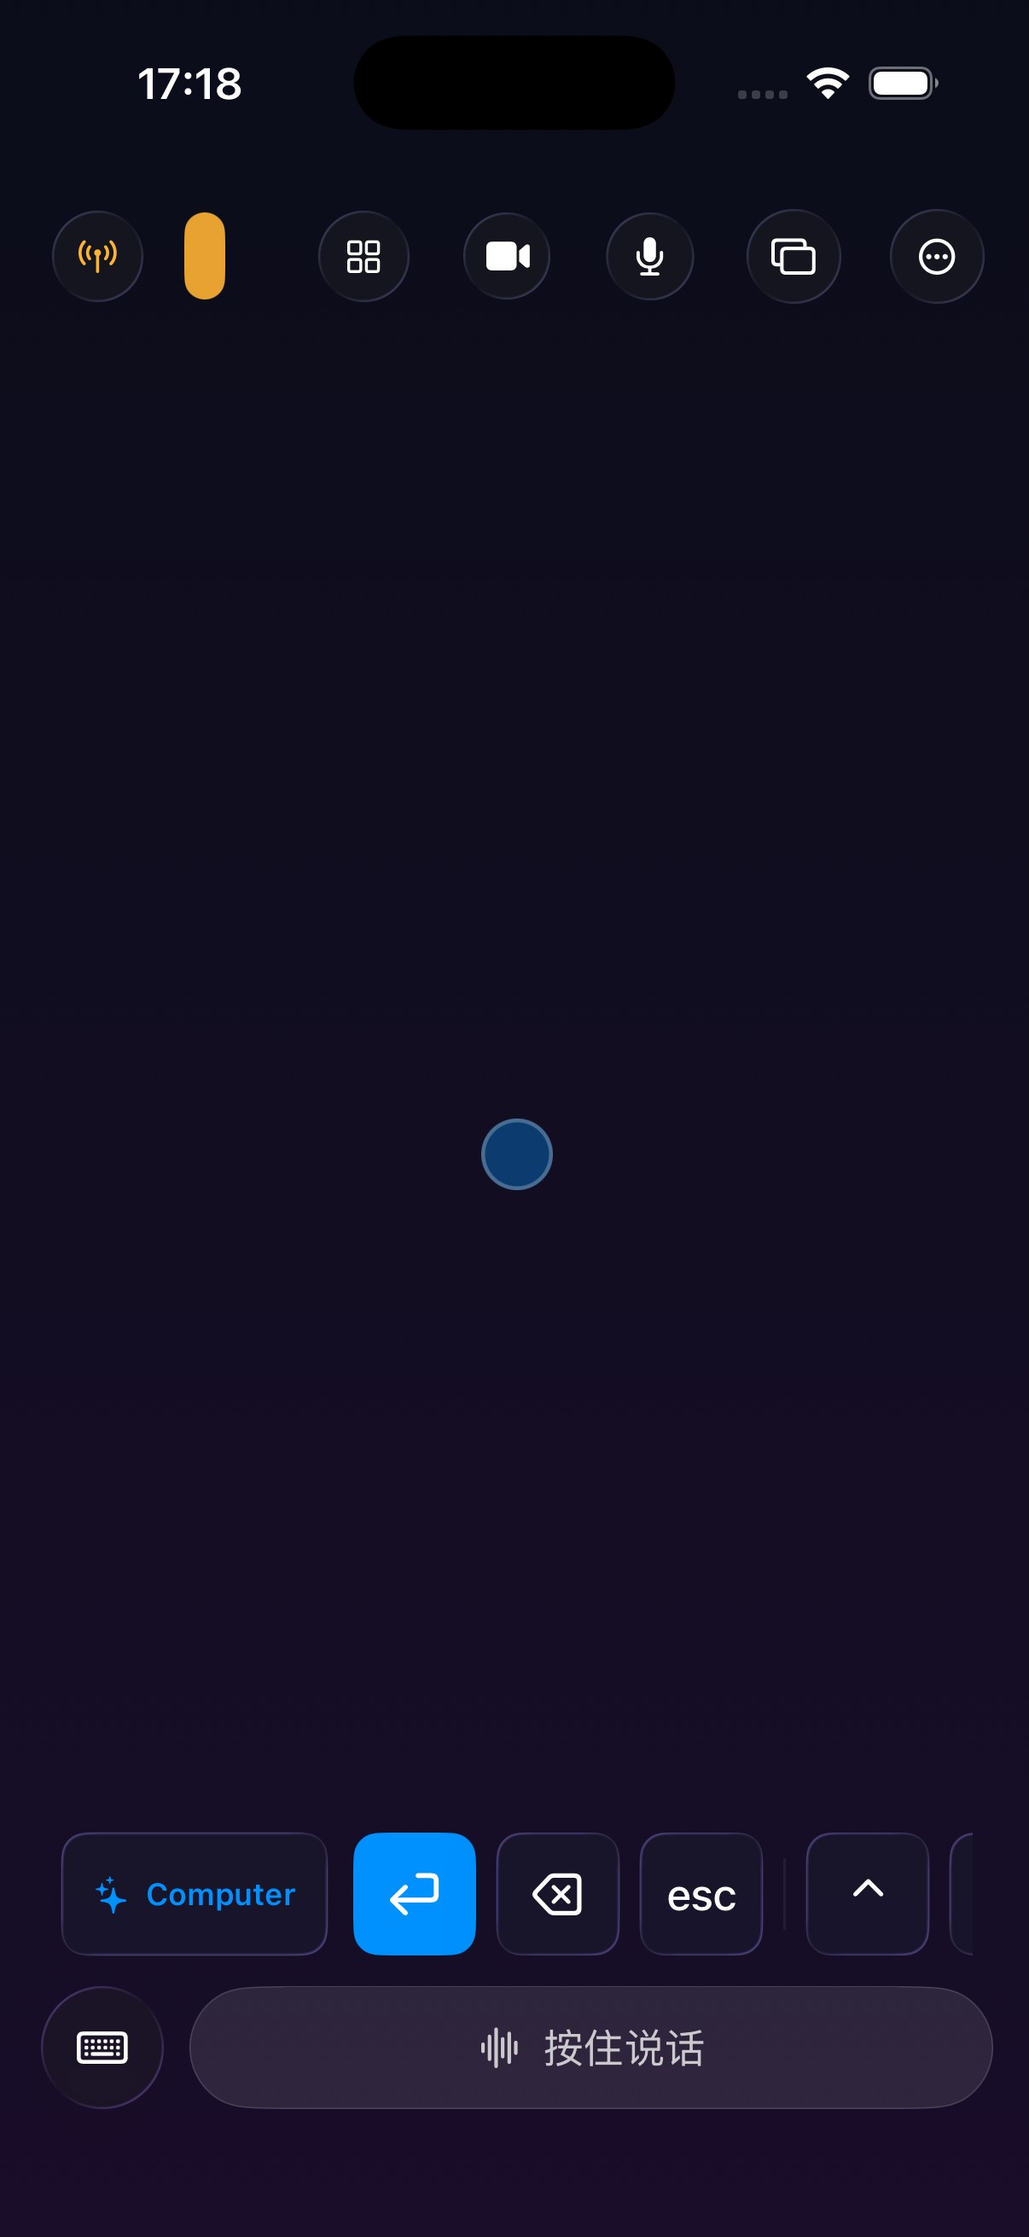
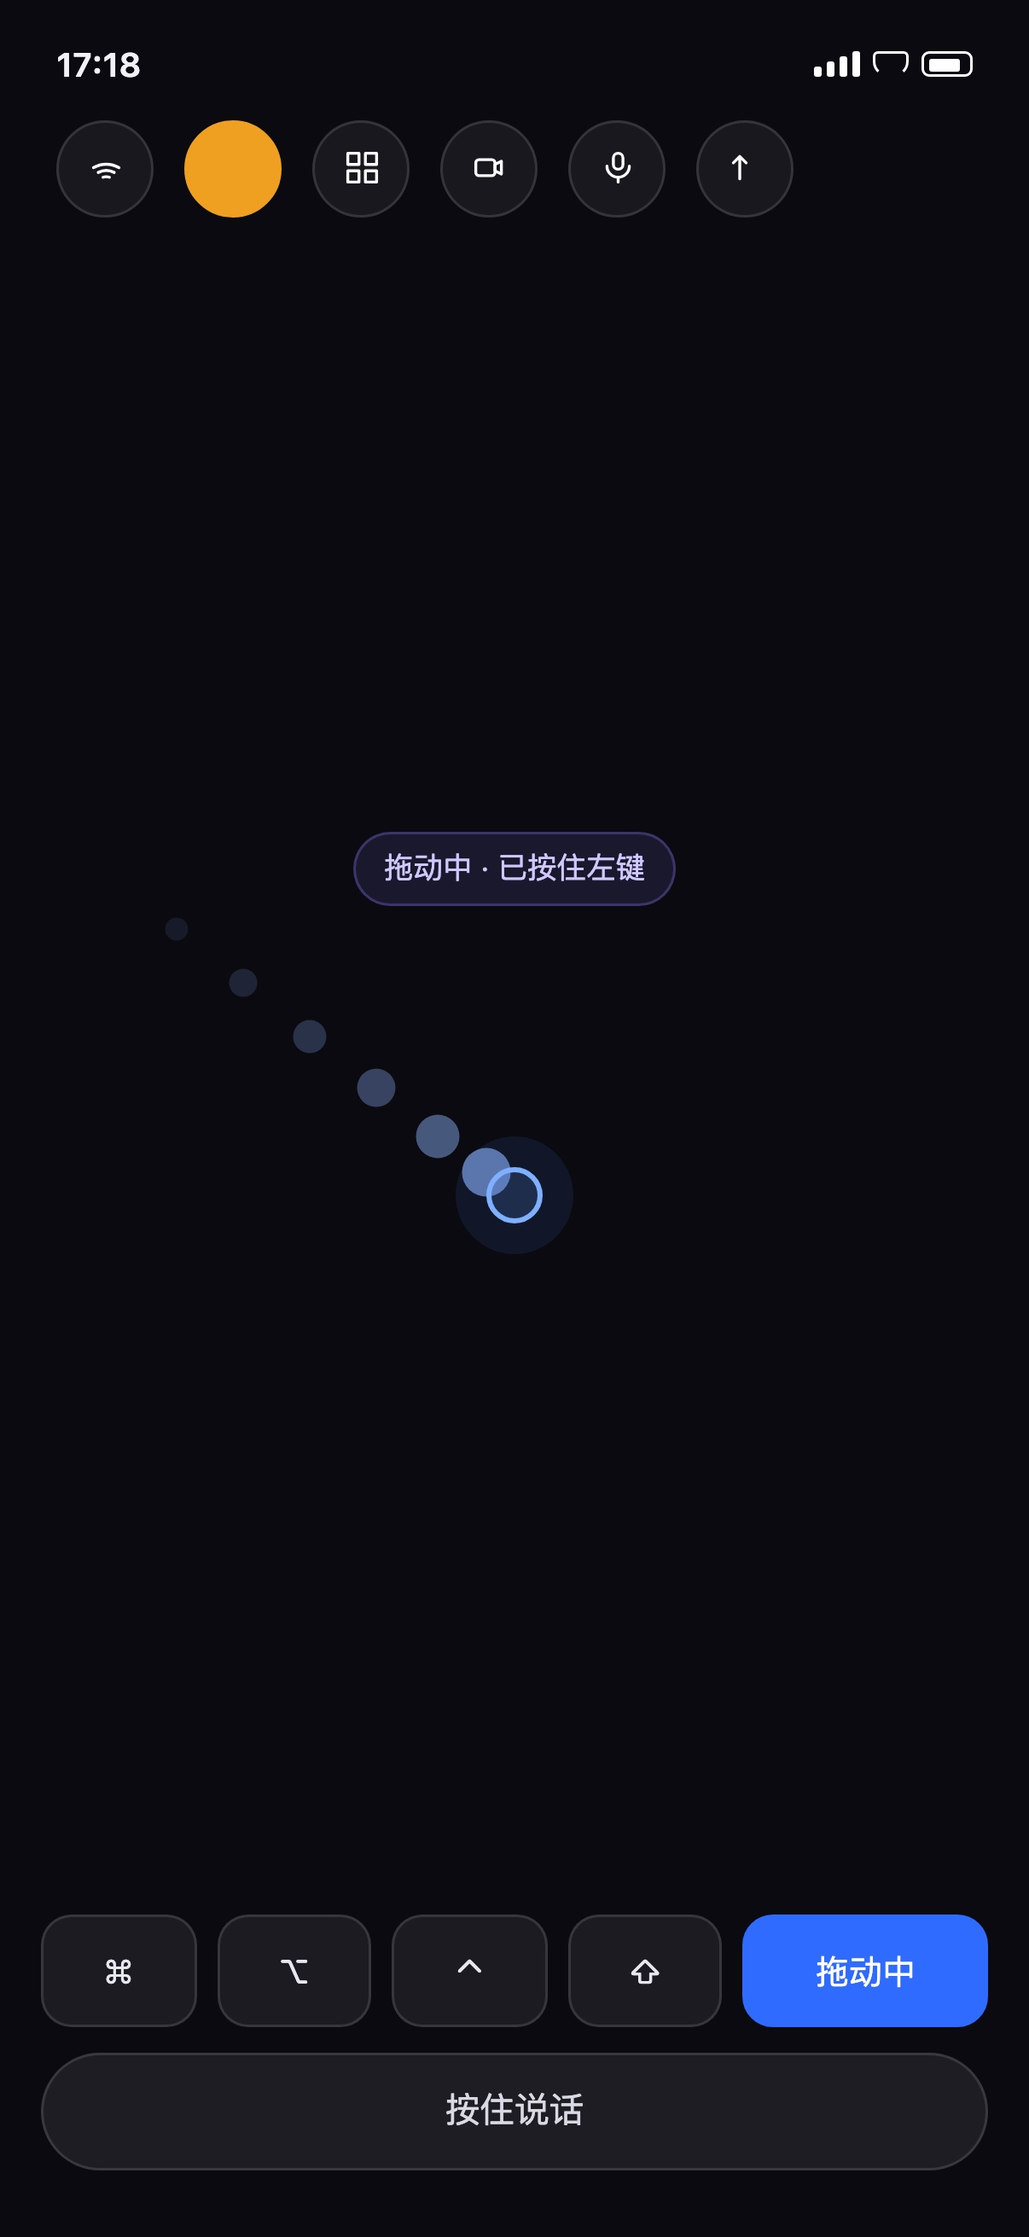
feat(remotecrab): 5 张配图改用 HTML 画（真机截图拍不出「它在做什么」）
camera 那张是「演示模式 —— 示例画面，未连接电脑」的占位图；ai 几乎全黑；
microphone / speaker / trackpad 是一块空白屏。产品还在变，配图的目的不是
像素级还原，而是让人一眼看懂这个东西长什么样、怎么用。

- scripts/mock/feature-screens.html：5 屏（相机对焦/虚焦房间、AI 对话、
  麦克风波形、扬声器波形、触控板拖动轨迹），沿用产品的深色 + 紫蓝渐变。
- scripts/render-feature-screens.mjs：CDP 按 402×874@3x 渲染成 1206×2622。
- camera 加回 ART_SLUGS。
- TODO 更新：这 5 张只有中文版，英文页还缺 <slug>-en.jpg。

diff --git a/scripts/mock/feature-screens.html b/scripts/mock/feature-screens.html
@@ -1,0 +1,261 @@
+<!doctype html>
+<html lang="zh-CN">
+<head>
+<meta charset="utf-8">
+<title>RemoteCrab 功能页配图（HTML 绘制）</title>
+<style>
+  :root{
+    --bg:#0a0a10; --surface:rgba(255,255,255,.06); --line:rgba(255,255,255,.12);
+    --text:#f2f2f5; --muted:#9a9aa8; --dim:#6e6e7c;
+    --a:#8b7bff; --b:#4d8dff;
+  }
+  *{box-sizing:border-box;margin:0;padding:0}
+  body{background:#000;font:15px/1.45 -apple-system,BlinkMacSystemFont,"SF Pro Text","PingFang SC",sans-serif;color:var(--text)}
+  .screen{
+    position:relative;width:402px;height:874px;overflow:hidden;background:var(--bg);
+    display:none;flex-direction:column;
+  }
+  .screen.on{display:flex}
+
+  /* 状态栏 + 应用工具栏 */
+  .status{display:flex;align-items:center;justify-content:space-between;padding:16px 22px 6px;font-size:13px;font-weight:600}
+  .status .icons{display:flex;gap:5px;align-items:center}
+  .bars{display:flex;gap:2px;align-items:flex-end}
+  .bars i{display:block;width:3px;background:#fff;border-radius:1px}
+  .bars i:nth-child(1){height:4px}.bars i:nth-child(2){height:6px}.bars i:nth-child(3){height:8px}.bars i:nth-child(4){height:10px}
+  .wifi{width:14px;height:10px;border:1.5px solid #fff;border-radius:2px 2px 6px 6px;border-bottom-color:transparent}
+  .batt{width:20px;height:10px;border:1.5px solid #fff;border-radius:3px;position:relative}
+  .batt::after{content:"";position:absolute;inset:1.5px 4px 1.5px 1.5px;background:#fff;border-radius:1px}
+
+  .toolbar{display:flex;align-items:center;gap:12px;padding:6px 22px 4px}
+  .tb{width:38px;height:38px;border-radius:50%;background:var(--surface);border:1px solid var(--line);display:grid;place-items:center}
+  .tb.accent{background:#f0a020;border-color:#f0a020}
+  .tb.blue{background:#2f6bff;border-color:#2f6bff}
+  .tb svg{width:15px;height:15px;stroke:#fff;fill:none;stroke-width:1.8;stroke-linecap:round;stroke-linejoin:round}
+  .spacer{flex:1}
+
+  /* 底部键行 + PTT */
+  .foot{margin-top:auto;padding:10px 16px 26px;display:grid;gap:10px}
+  .keys{display:flex;gap:8px}
+  .key{flex:1;height:44px;border-radius:12px;background:rgba(255,255,255,.07);border:1px solid var(--line);
+       display:grid;place-items:center;font-size:13px;color:#e7e7ef}
+  .key.blue{background:#2f6bff;border-color:#2f6bff;color:#fff}
+  .key.wide{flex:1.6}
+  .ptt{height:46px;border-radius:23px;background:rgba(255,255,255,.08);border:1px solid var(--line);
+       display:grid;place-items:center;font-size:13.5px;color:#d9d9e3}
+
+  /* ---------- camera ---------- */
+  .cam-preview{position:absolute;inset:0;z-index:0;overflow:hidden;
+    background:radial-gradient(120% 80% at 20% 20%, #3a4a6a 0%, transparent 60%),
+               radial-gradient(100% 70% at 85% 30%, #6a5a4a 0%, transparent 55%),
+               radial-gradient(90% 60% at 40% 90%, #2a3346 0%, transparent 60%),
+               linear-gradient(180deg,#151a26,#0b0e16);
+  }
+  .cam-preview .window{position:absolute;left:10%;top:16%;width:36%;height:34%;border-radius:12px;
+    background:linear-gradient(180deg,rgba(205,225,255,.55),rgba(150,190,255,.26));filter:blur(10px);opacity:.55}
+  .cam-preview .desk{position:absolute;left:0;right:0;top:64%;height:36%;
+    background:linear-gradient(180deg,rgba(120,90,60,.32),rgba(26,22,18,.6));filter:blur(8px)}
+  .cam-preview .plant{position:absolute;right:12%;top:46%;width:20%;height:28%;
+    border-radius:50% 50% 44% 44%;background:rgba(70,110,80,.38);filter:blur(13px)}
+  .cam-preview .lamp{position:absolute;left:58%;top:24%;width:16%;height:14%;border-radius:50%;
+    background:rgba(255,225,180,.35);filter:blur(16px)}
+  .cam-focus{position:absolute;left:50%;top:44%;width:66px;height:66px;transform:translate(-50%,-50%);
+    border:1.5px solid rgba(255,255,255,.5);border-radius:10px}
+  .cam-top{position:relative;z-index:2;display:flex;align-items:center;justify-content:space-between;padding:14px 18px}
+  .chip{display:inline-flex;align-items:center;gap:6px;font-size:11.5px;color:#e9e9f2;
+        background:rgba(8,8,14,.55);border:1px solid rgba(255,255,255,.16);backdrop-filter:blur(8px);
+        padding:5px 10px;border-radius:999px}
+  .dot{width:6px;height:6px;border-radius:50%;background:#3ecf8e}
+  .cam-bottom{position:relative;z-index:2;margin-top:auto;padding:0 18px 26px;display:grid;gap:14px}
+  .cam-btns{display:flex;justify-content:center;gap:16px}
+  .cbtn{width:52px;height:52px;border-radius:50%;background:rgba(10,10,16,.5);border:1px solid rgba(255,255,255,.2);
+        display:grid;place-items:center;backdrop-filter:blur(10px)}
+  .cbtn svg{width:20px;height:20px;stroke:#fff;fill:none;stroke-width:1.7;stroke-linecap:round;stroke-linejoin:round}
+  .cbtn.on{background:#e04b4b;border-color:#e04b4b}
+
+  /* ---------- ai ---------- */
+  .head{display:flex;align-items:center;justify-content:space-between;padding:6px 20px 10px}
+  .head h1{font-size:17px;font-weight:650;display:flex;align-items:center;gap:7px}
+  .head .done{font-size:13px;color:var(--muted)}
+  .chat{flex:1;padding:8px 18px;display:flex;flex-direction:column;gap:12px;overflow:hidden}
+  .ctx{display:flex;gap:6px;justify-content:flex-end}
+  .ctx span{font-size:10.5px;color:#cfc8ff;background:rgba(139,123,255,.14);border:1px solid rgba(139,123,255,.3);
+            padding:3px 8px;border-radius:999px}
+  .bubble-user{align-self:flex-end;max-width:78%;background:linear-gradient(135deg,var(--a),var(--b));
+    color:#fff;padding:11px 14px;border-radius:18px 18px 4px 18px;font-size:14px}
+  .bubble-ai{align-self:flex-start;max-width:88%;background:rgba(255,255,255,.06);border:1px solid var(--line);
+    padding:13px 15px;border-radius:18px 18px 18px 4px;font-size:13.5px;line-height:1.6;color:#e6e6ee}
+  .bubble-ai b{color:#fff;font-weight:600}
+  .bubble-ai code{font-family:ui-monospace,Menlo,monospace;font-size:12px;background:rgba(255,255,255,.08);
+    padding:1px 5px;border-radius:5px}
+  .apply{margin-top:9px;display:inline-flex;align-items:center;gap:6px;font-size:12px;color:#cfc8ff;
+    border:1px solid rgba(139,123,255,.35);border-radius:999px;padding:5px 10px}
+
+  /* ---------- 音频（麦克风 / 扬声器） ---------- */
+  .audio{flex:1;display:flex;flex-direction:column;align-items:center;justify-content:center;gap:22px;padding:0 30px}
+  .wave{display:flex;align-items:center;gap:5px;height:120px}
+  .wave i{display:block;width:6px;border-radius:3px;background:linear-gradient(180deg,var(--a),var(--b))}
+  .audio .title{font-size:17px;font-weight:600}
+  .audio .sub{font-size:13px;color:var(--muted);text-align:center;line-height:1.6}
+  .meter{width:100%;max-width:280px;height:6px;border-radius:3px;background:rgba(255,255,255,.1);overflow:hidden}
+  .meter i{display:block;height:100%;width:62%;border-radius:3px;background:linear-gradient(90deg,var(--a),var(--b))}
+  .devchip{display:inline-flex;align-items:center;gap:7px;font-size:12px;color:#dcdce6;
+    background:rgba(255,255,255,.06);border:1px solid var(--line);padding:7px 12px;border-radius:999px}
+
+  /* ---------- trackpad ---------- */
+  .pad{position:relative;flex:1;margin:4px 14px 0}
+  .trail{position:absolute;left:50%;top:58%;width:0;height:0}
+  .trail i{position:absolute;border-radius:50%;background:#8fb4ff;display:block;transform:translate(-50%,-50%)}
+  .cursor{position:absolute;left:50%;top:58%;width:22px;height:22px;border-radius:50%;
+    transform:translate(-50%,-50%);background:rgba(90,150,255,.25);border:2px solid #7fb0ff;
+    box-shadow:0 0 0 12px rgba(90,150,255,.10)}
+  .hint{position:absolute;left:50%;top:36%;transform:translateX(-50%);font-size:11.5px;color:#cfc8ff;
+    background:rgba(139,123,255,.12);border:1px solid rgba(139,123,255,.3);padding:5px 11px;border-radius:999px}
+</style>
+</head>
+<body>
+
+<!-- ============ camera ============ -->
+<section class="screen" id="camera">
+  <div class="cam-preview">
+    <span class="window"></span><span class="desk"></span><span class="plant"></span><span class="lamp"></span>
+  </div>
+  <span class="cam-focus"></span>
+  <div class="status" style="position:relative;z-index:2">
+    <span>17:18</span>
+    <span class="icons"><span class="bars"><i></i><i></i><i></i><i></i></span><span class="wifi"></span><span class="batt"></span></span>
+  </div>
+  <div class="cam-top">
+    <span class="chip"><i class="dot"></i>RemoteCrab Camera</span>
+    <span class="chip">1080p · 30</span>
+  </div>
+  <div class="cam-bottom">
+    <div class="cam-btns">
+      <div class="cbtn on"><svg viewBox="0 0 24 24"><path d="M12 15a3 3 0 003-3V6a3 3 0 00-6 0v6a3 3 0 003 3z"/><path d="M19 11a7 7 0 01-14 0M12 18v3"/></svg></div>
+      <div class="cbtn"><svg viewBox="0 0 24 24"><path d="M4 7h4l2-2h4l2 2h4v12H4z"/><circle cx="12" cy="13" r="3.2"/></svg></div>
+      <div class="cbtn"><svg viewBox="0 0 24 24"><path d="M4 8h12v8H4z"/><path d="M16 10l4-2v8l-4-2z"/></svg></div>
+    </div>
+    <div class="ptt">按住说话</div>
+  </div>
+</section>
+
+<!-- ============ ai ============ -->
+<section class="screen" id="ai">
+  <div class="status"><span>17:18</span><span class="icons"><span class="bars"><i></i><i></i><i></i><i></i></span><span class="wifi"></span><span class="batt"></span></span></div>
+  <div class="head">
+    <h1><svg width="17" height="17" viewBox="0 0 24 24" fill="none" stroke="#8fb4ff" stroke-width="1.8" stroke-linecap="round" stroke-linejoin="round"><path d="M12 3l1.9 5.1L19 10l-5.1 1.9L12 17l-1.9-5.1L5 10l5.1-1.9z"/></svg>问 AI</h1>
+    <span class="done">完成</span>
+  </div>
+  <div class="chat">
+    <div class="ctx"><span>屏幕</span><span>剪贴板</span></div>
+    <div class="bubble-user">npm 报 EACCES，这个怎么修？</div>
+    <div class="bubble-ai">
+      这是权限问题：安装目录不属于当前用户。
+      <br><br>
+      先看这一行：
+      <br><code>/usr/local/lib/node_modules</code>
+      <br><br>
+      把它的所有者改成你自己就行。
+      <span class="apply">打到电脑光标处 →</span>
+    </div>
+  </div>
+  <div class="foot"><div class="ptt">按住问 AI</div></div>
+</section>
+
+<!-- ============ microphone ============ -->
+<section class="screen" id="microphone">
+  <div class="status"><span>17:18</span><span class="icons"><span class="bars"><i></i><i></i><i></i><i></i></span><span class="wifi"></span><span class="batt"></span></span></div>
+  <div class="toolbar">
+    <div class="tb"><svg viewBox="0 0 24 24"><path d="M4 12a16 16 0 0116 0M7 15a11 11 0 0110 0M10 18a6 6 0 014 0"/></svg></div>
+    <div class="tb accent"></div>
+    <div class="tb"><svg viewBox="0 0 24 24"><rect x="3" y="3" width="7" height="7"/><rect x="14" y="3" width="7" height="7"/><rect x="3" y="14" width="7" height="7"/><rect x="14" y="14" width="7" height="7"/></svg></div>
+    <div class="tb"><svg viewBox="0 0 24 24"><rect x="3" y="7" width="12" height="10" rx="2"/><path d="M15 10l4-2v8l-4-2z"/></svg></div>
+    <div class="tb blue"><svg viewBox="0 0 24 24"><rect x="9" y="3" width="6" height="10" rx="3"/><path d="M5 11a7 7 0 0014 0M12 18v3"/></svg></div>
+    <div class="spacer"></div>
+  </div>
+  <div class="audio">
+    <div class="devchip"><i class="dot"></i>输入：RemoteCrab Microphone</div>
+    <div class="wave">
+      <i style="height:18px"></i><i style="height:34px"></i><i style="height:56px"></i><i style="height:82px"></i>
+      <i style="height:104px"></i><i style="height:78px"></i><i style="height:46px"></i><i style="height:28px"></i>
+      <i style="height:44px"></i><i style="height:70px"></i><i style="height:38px"></i><i style="height:16px"></i>
+    </div>
+    <div class="title">正在传到电脑</div>
+    <div class="sub">Zoom、Teams、录音软件里都能选到它<br>声音只在你自己的 WiFi 里走</div>
+    <div class="meter"><i></i></div>
+  </div>
+  <div class="foot">
+    <div class="keys"><div class="key blue">麦克风</div><div class="key">扬声器</div></div>
+    <div class="ptt">按住说话</div>
+  </div>
+</section>
+
+<!-- ============ speaker ============ -->
+<section class="screen" id="speaker">
+  <div class="status"><span>17:18</span><span class="icons"><span class="bars"><i></i><i></i><i></i><i></i></span><span class="wifi"></span><span class="batt"></span></span></div>
+  <div class="toolbar">
+    <div class="tb"><svg viewBox="0 0 24 24"><path d="M4 12a16 16 0 0116 0M7 15a11 11 0 0110 0M10 18a6 6 0 014 0"/></svg></div>
+    <div class="tb"><svg viewBox="0 0 24 24"><rect x="3" y="3" width="7" height="7"/><rect x="14" y="3" width="7" height="7"/><rect x="3" y="14" width="7" height="7"/><rect x="14" y="14" width="7" height="7"/></svg></div>
+    <div class="tb"><svg viewBox="0 0 24 24"><rect x="3" y="7" width="12" height="10" rx="2"/><path d="M15 10l4-2v8l-4-2z"/></svg></div>
+    <div class="tb"><svg viewBox="0 0 24 24"><rect x="9" y="3" width="6" height="10" rx="3"/><path d="M5 11a7 7 0 0014 0M12 18v3"/></svg></div>
+    <div class="tb blue"><svg viewBox="0 0 24 24"><path d="M4 9v6h4l5 4V5L8 9z"/><path d="M16 9a4 4 0 010 6"/></svg></div>
+    <div class="spacer"></div>
+  </div>
+  <div class="audio">
+    <div class="devchip"><i class="dot"></i>输出：这台 iPhone</div>
+    <div class="wave">
+      <i style="height:30px"></i><i style="height:64px"></i><i style="height:96px"></i><i style="height:58px"></i>
+      <i style="height:40px"></i><i style="height:76px"></i><i style="height:52px"></i><i style="height:24px"></i>
+      <i style="height:66px"></i><i style="height:90px"></i><i style="height:44px"></i><i style="height:20px"></i>
+    </div>
+    <div class="title">电脑的声音，从这里出来</div>
+    <div class="sub">网页里的剧、正在放的歌、会议里的声音<br>都在手机上放</div>
+    <div class="meter"><i style="width:48%"></i></div>
+  </div>
+  <div class="foot">
+    <div class="keys"><div class="key">麦克风</div><div class="key blue">扬声器</div></div>
+    <div class="ptt">按住说话</div>
+  </div>
+</section>
+
+<!-- ============ trackpad ============ -->
+<section class="screen" id="trackpad">
+  <div class="status"><span>17:18</span><span class="icons"><span class="bars"><i></i><i></i><i></i><i></i></span><span class="wifi"></span><span class="batt"></span></span></div>
+  <div class="toolbar">
+    <div class="tb"><svg viewBox="0 0 24 24"><path d="M4 12a16 16 0 0116 0M7 15a11 11 0 0110 0M10 18a6 6 0 014 0"/></svg></div>
+    <div class="tb accent"></div>
+    <div class="tb"><svg viewBox="0 0 24 24"><rect x="3" y="3" width="7" height="7"/><rect x="14" y="3" width="7" height="7"/><rect x="3" y="14" width="7" height="7"/><rect x="14" y="14" width="7" height="7"/></svg></div>
+    <div class="tb"><svg viewBox="0 0 24 24"><rect x="3" y="7" width="12" height="10" rx="2"/><path d="M15 10l4-2v8l-4-2z"/></svg></div>
+    <div class="tb"><svg viewBox="0 0 24 24"><rect x="9" y="3" width="6" height="10" rx="3"/><path d="M5 11a7 7 0 0014 0M12 18v3"/></svg></div>
+    <div class="tb"><svg viewBox="0 0 24 24"><path d="M8 5v14M4 9l4-4 4 4"/></svg></div>
+    <div class="spacer"></div>
+  </div>
+  <div class="pad">
+    <span class="hint">拖动中 · 已按住左键</span>
+    <!-- 光标轨迹：一条从左上滑到右下的拖动路径，越靠近手指越实 -->
+    <span class="trail">
+      <i style="width:9px;height:9px;left:-132px;top:-104px;opacity:.10"></i>
+      <i style="width:11px;height:11px;left:-106px;top:-83px;opacity:.16"></i>
+      <i style="width:13px;height:13px;left:-80px;top:-62px;opacity:.24"></i>
+      <i style="width:15px;height:15px;left:-54px;top:-42px;opacity:.34"></i>
+      <i style="width:17px;height:17px;left:-30px;top:-23px;opacity:.46"></i>
+      <i style="width:19px;height:19px;left:-11px;top:-9px;opacity:.62"></i>
+    </span>
+    <span class="cursor"></span>
+  </div>
+  <div class="foot">
+    <div class="keys">
+      <div class="key">⌘</div><div class="key">⌥</div><div class="key">⌃</div><div class="key">⇧</div>
+      <div class="key wide blue">拖动中</div>
+    </div>
+    <div class="ptt">按住说话</div>
+  </div>
+</section>
+
+<script>
+  const want = new URLSearchParams(location.search).get('s')
+  const el = document.getElementById(want)
+  if (el) el.classList.add('on')
+</script>
+</body>
+</html>

diff --git a/src/pages/RemoteCrabFeaturePage.tsx b/src/pages/RemoteCrabFeaturePage.tsx
@@ -117,11 +117,12 @@ export default function RemoteCrabFeaturePage() {
   // 只有真的有本地截图的页面才渲染手机壳；没有的页面直接走纯文字面板，
   // 免得每个新页面先 404 一次、预渲染快照里还留下一个空框。
   // 只列真的存在截图文件的页面（public/remotecrab/features/<slug>.jpg）。
-  // camera 暂时排除：那张是「演示模式 —— 示例画面，未连接电脑」的占位图，
-  // 比没有图更糟；等真机重拍后再加回来。
+  // camera / ai / microphone / speaker / trackpad 这 5 张是 HTML 画出来的
+  // （scripts/mock/feature-screens.html + render-feature-screens.mjs）：
+  // 真机截图要么是「演示模式」占位图，要么是一块空白屏，画出来才看得懂在做什么。
   const ART_SLUGS = new Set<FeatureSlug>([
     'notifications', 'ai', 'microphone', 'speaker', 'screen-mirror', 'trackpad',
-    'keyboard', 'voice', 'transfer', 'automation', 'numpad',
+    'keyboard', 'voice', 'transfer', 'automation', 'numpad', 'camera',
   ])
   const [artSrc, setArtSrc] = useState<string | null>(null)
   useEffect(() => {

diff --git a/docs/TODO-remotecrab-site.md b/docs/TODO-remotecrab-site.md
@@ -19,15 +19,19 @@
       目标：深色渐变底 + 环境光晕 + 设备框 + 统一比例，**不加任何营销文字**（文案由页面负责）。
       验收：随便挑 3 个功能页截图看，框体一致、没有假刘海、图片不模糊。
 
-- [ ] **A2. 截图审计（2026-11-12 已做，结论如下）**
-      现有 11 张真机截图里，**5 张需要重拍**：
+- [x] **A2. 截图审计（2026-11-12 已做）——5 张用 HTML 重画，不再等真机**
+      现有 11 张真机截图里，**5 张不能用**，已用 `scripts/mock/feature-screens.html`
+      + `scripts/render-feature-screens.mjs` 画成 1206×2622 的配图（改文案/改布局都只需改 HTML 再渲染）：
       | slug | 问题 |
       |---|---|
-      | `camera` | 是「演示模式 —— 示例画面，未连接电脑」的占位图，已从 `ART_SLUGS` 移除 |
+      | `camera` | 原来是「演示模式」占位图 → 现在画成虚焦房间 + 对焦框 |
       | `ai` | 几乎全黑，只有顶部一条输入栏 |
       | `microphone` | 空白屏 + 一个圆点，看不出是麦克风 |
       | `speaker` | 同上 |
-      | `trackpad` | 同上（触控板本来就是空面，需要一张有拖动轨迹/手势状态的） |
+      | `trackpad` | 原来是一块空板 → 现在画成「拖动中」的轨迹状态 |
+      `ai` 画成了对话（问题 + 屏幕/剪贴板上下文 + 「打到电脑光标处」）；`microphone` / `speaker`
+      画成了波形 + 设备名 + 电平条。
+      **还没做**：这 5 张只有中文版；英文页仍无配图（缺 `<slug>-en.jpg`）。
       可用：`keyboard` / `notifications` / `transfer` / `automation`（标签是英文）/ `screen-mirror`（镜的是照片）。
       `numpad` 用的是视频帧而非 UI 截图，风格与其它不一致。
       另外 `remote-access` / `extended-display` / `app-switcher` 在 `ART_SLUGS` 里曾列过但**没有文件**，已移除。
